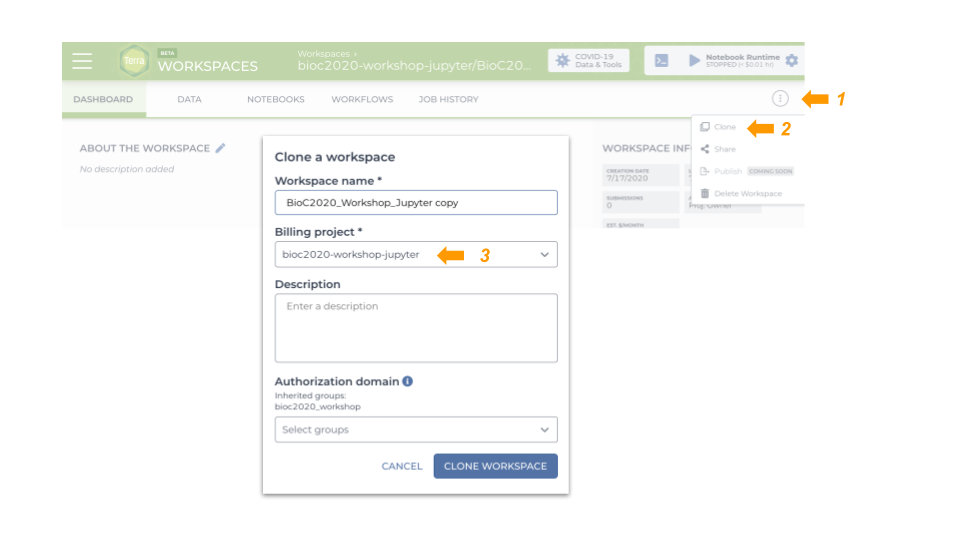
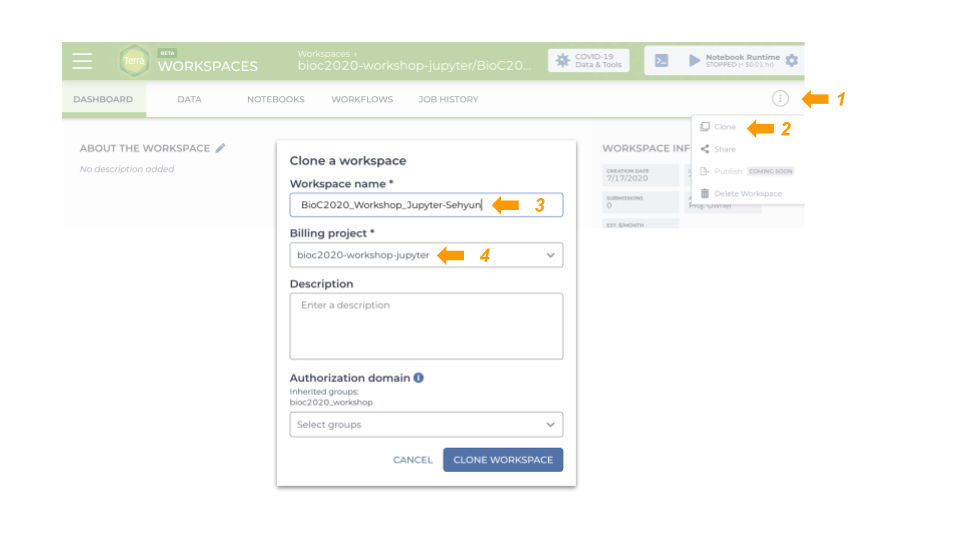
Deploying to gh-pages from  @ 99fea246e06e715b56ef0a591bc31c03edf1e852 🚀

Changed region(s): [[0.25, 0.5333, 0.5938, 0.9481], [0.2812, 0.2667, 0.5938, 0.5926]]

diff --git a/articles/live-demo.html b/articles/live-demo.html
@@ -110,19 +110,27 @@
 <div id="demo-workspace" class="section level1">
 <h1 class="hasAnchor">
 <a href="#demo-workspace" class="anchor"></a>Demo Workspace</h1>
-<p>We will use the notebook, <code>Annotate_Manifest</code>, from <strong>BioC2020_Workshop_Jupyter</strong> workspace for our live demo. You will clone this workspace and start your own notebook in playground mode.</p>
+<p>We will use the notebook, <em>Annotate_Manifest</em>, from <strong>BioC2020_Workshop_Jupyter</strong> workspace for our live demo. You will clone this workspace and start your own notebook in <em>PLAYGROUND MODE</em>.</p>
 <ol style="list-style-type: decimal">
 <li>Go to <a href="https://app.terra.bio/#workspaces/bioc2020-workshop-jupyter/BioC2020_Workshop_Jupyter" class="uri">https://app.terra.bio/#workspaces/bioc2020-workshop-jupyter/BioC2020_Workshop_Jupyter</a><br>
 </li>
-<li>Clone this workspace. Use the Billing project, “bioc2020-workshop-jupyter”</li>
+<li>Clone this workspace:<br>
+</li>
 </ol>
+<ul>
+<li>Assign a <em>unique</em> workspace name<br>
+</li>
+<li>Use the Billing project, <strong>“bioc2020-workshop-jupyter”</strong>
+</li>
+</ul>
 <p><img src="images/clone_demo_workspace2.png" height="400"></p>
 <ol start="3" style="list-style-type: decimal">
 <li>From your cloned workspace, go NOTEBOOKS tab<br>
 </li>
-<li>Open the notebook, Annotate_Manifest<br>
+<li>Open the notebook, <em>Annotate_Manifest</em><br>
 </li>
-<li>Start your notebook in playground mode</li>
+<li>Start your notebook in <em>PLAYGROUND MODE</em>
+</li>
 </ol>
 <p><img src="images/start_notebooks2.png" height="400"></p>
 <div id="share-workspaces" class="section level2">
